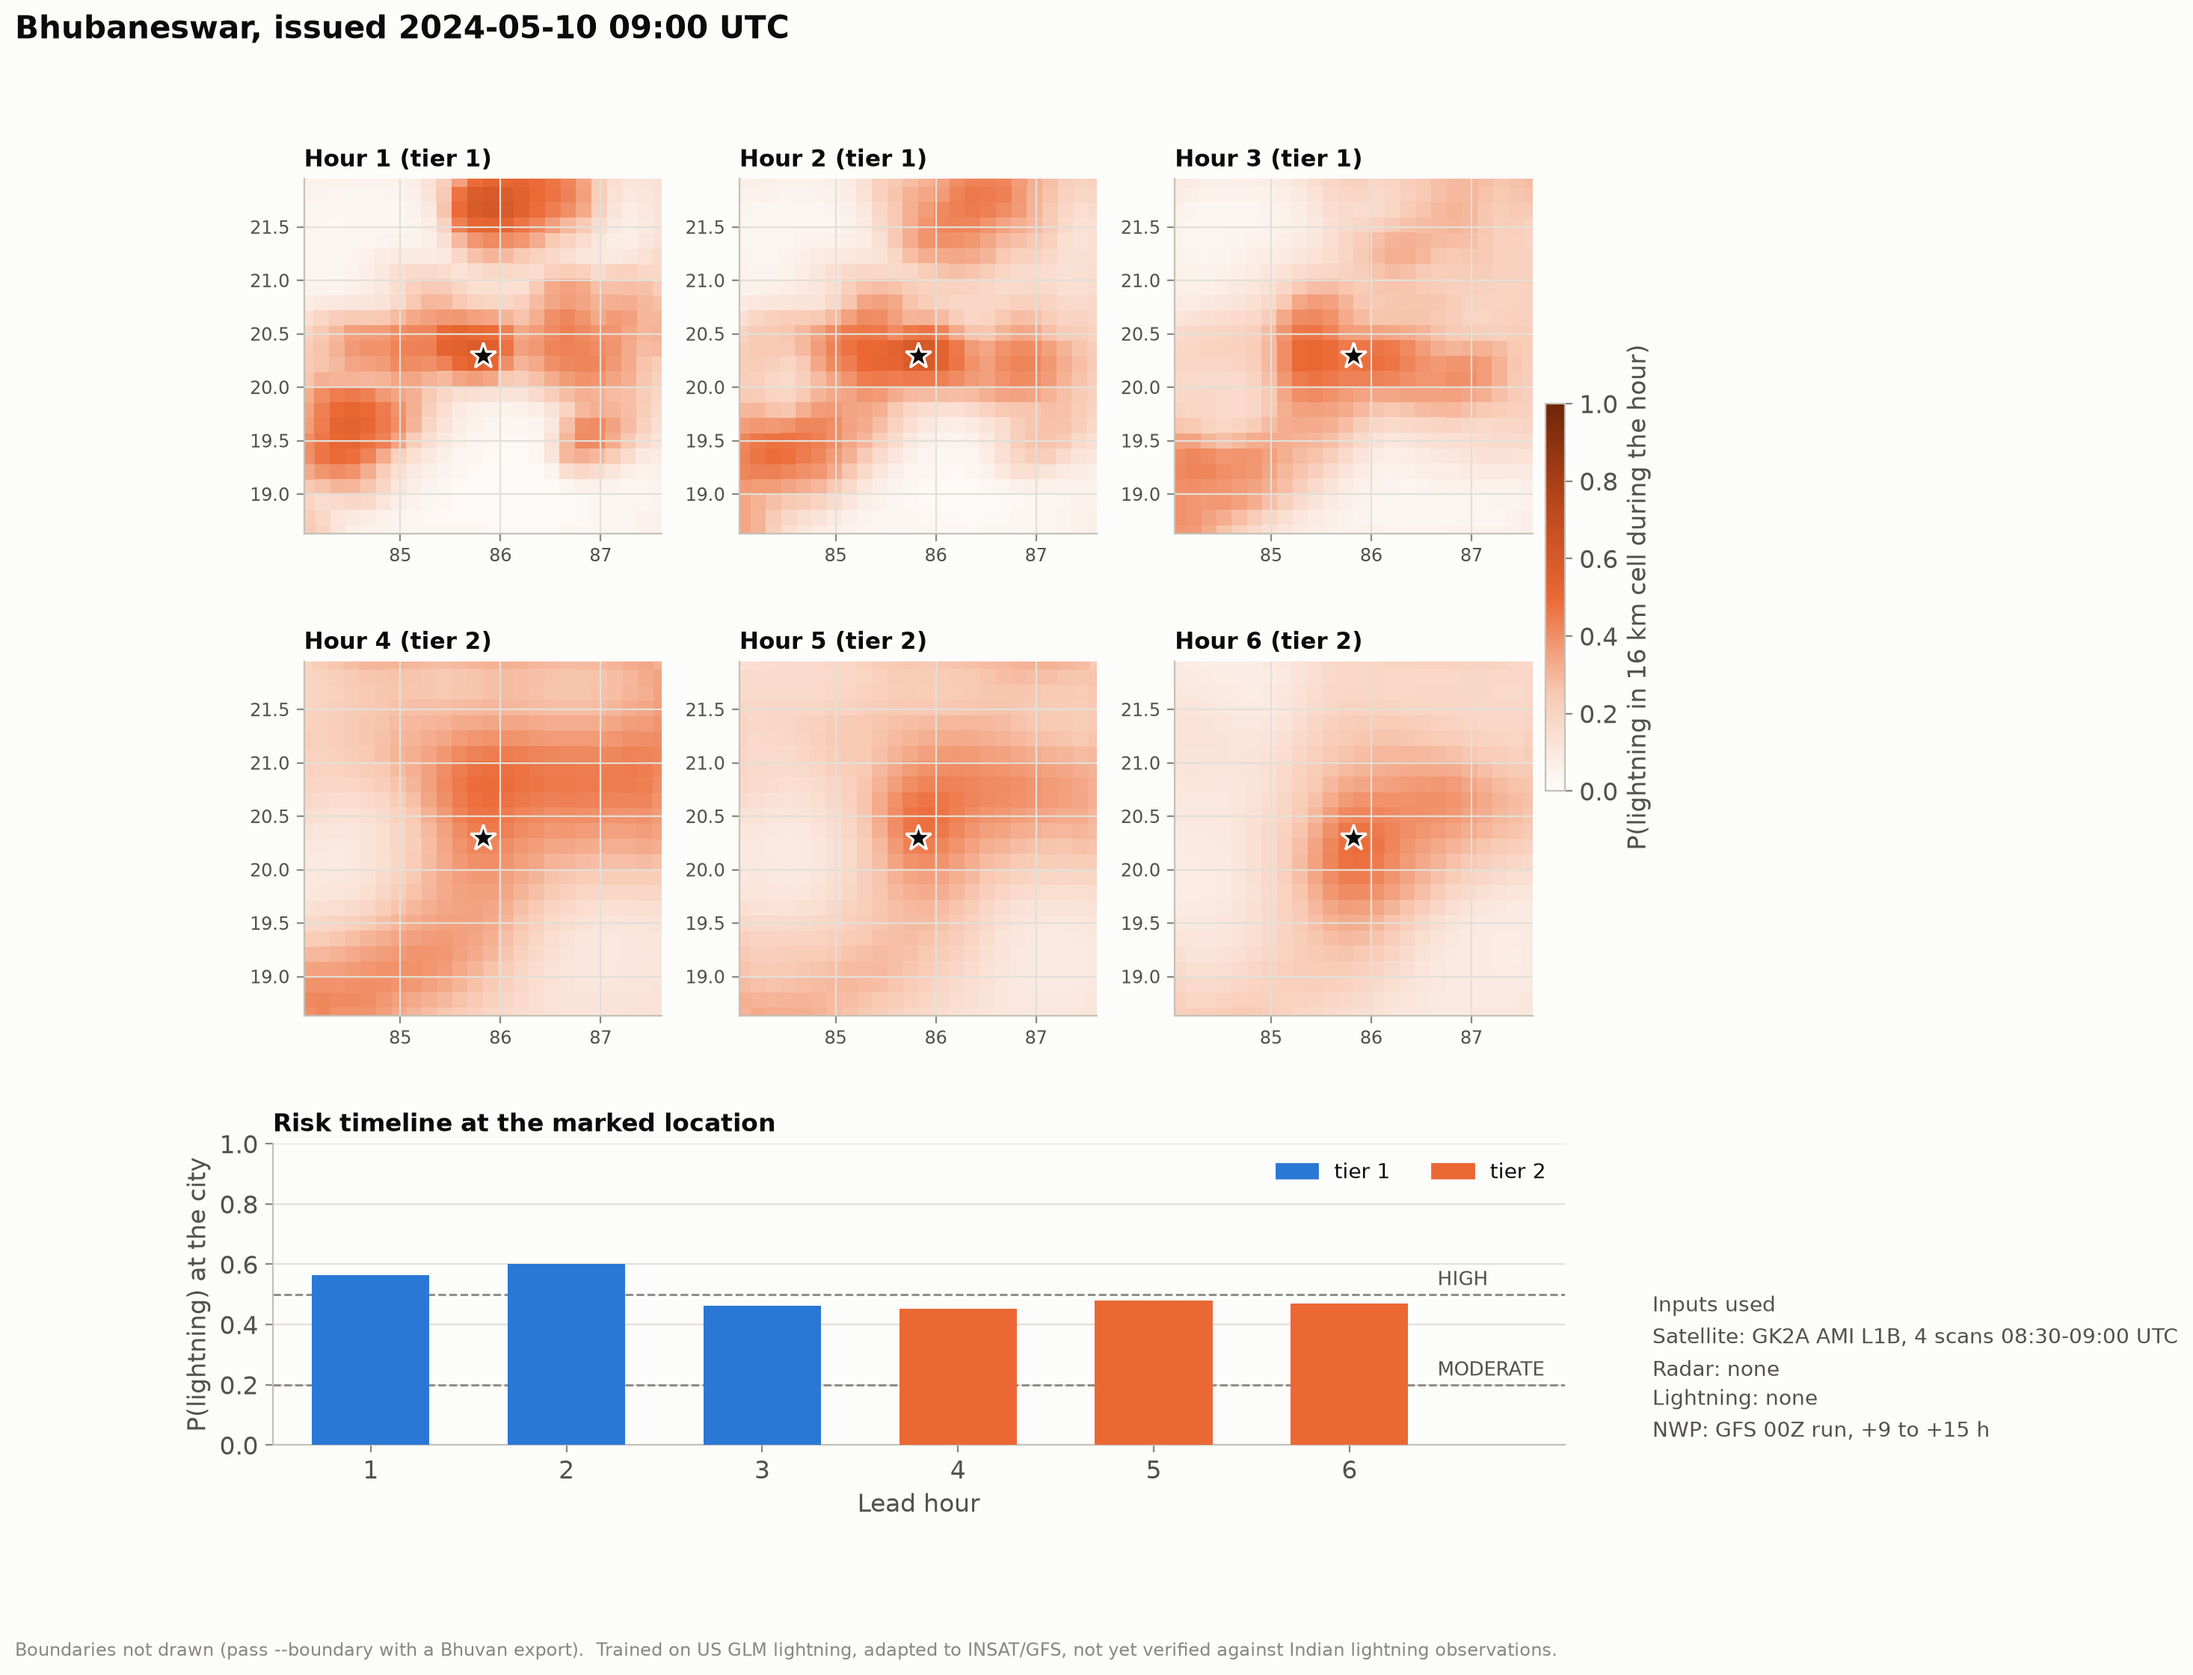
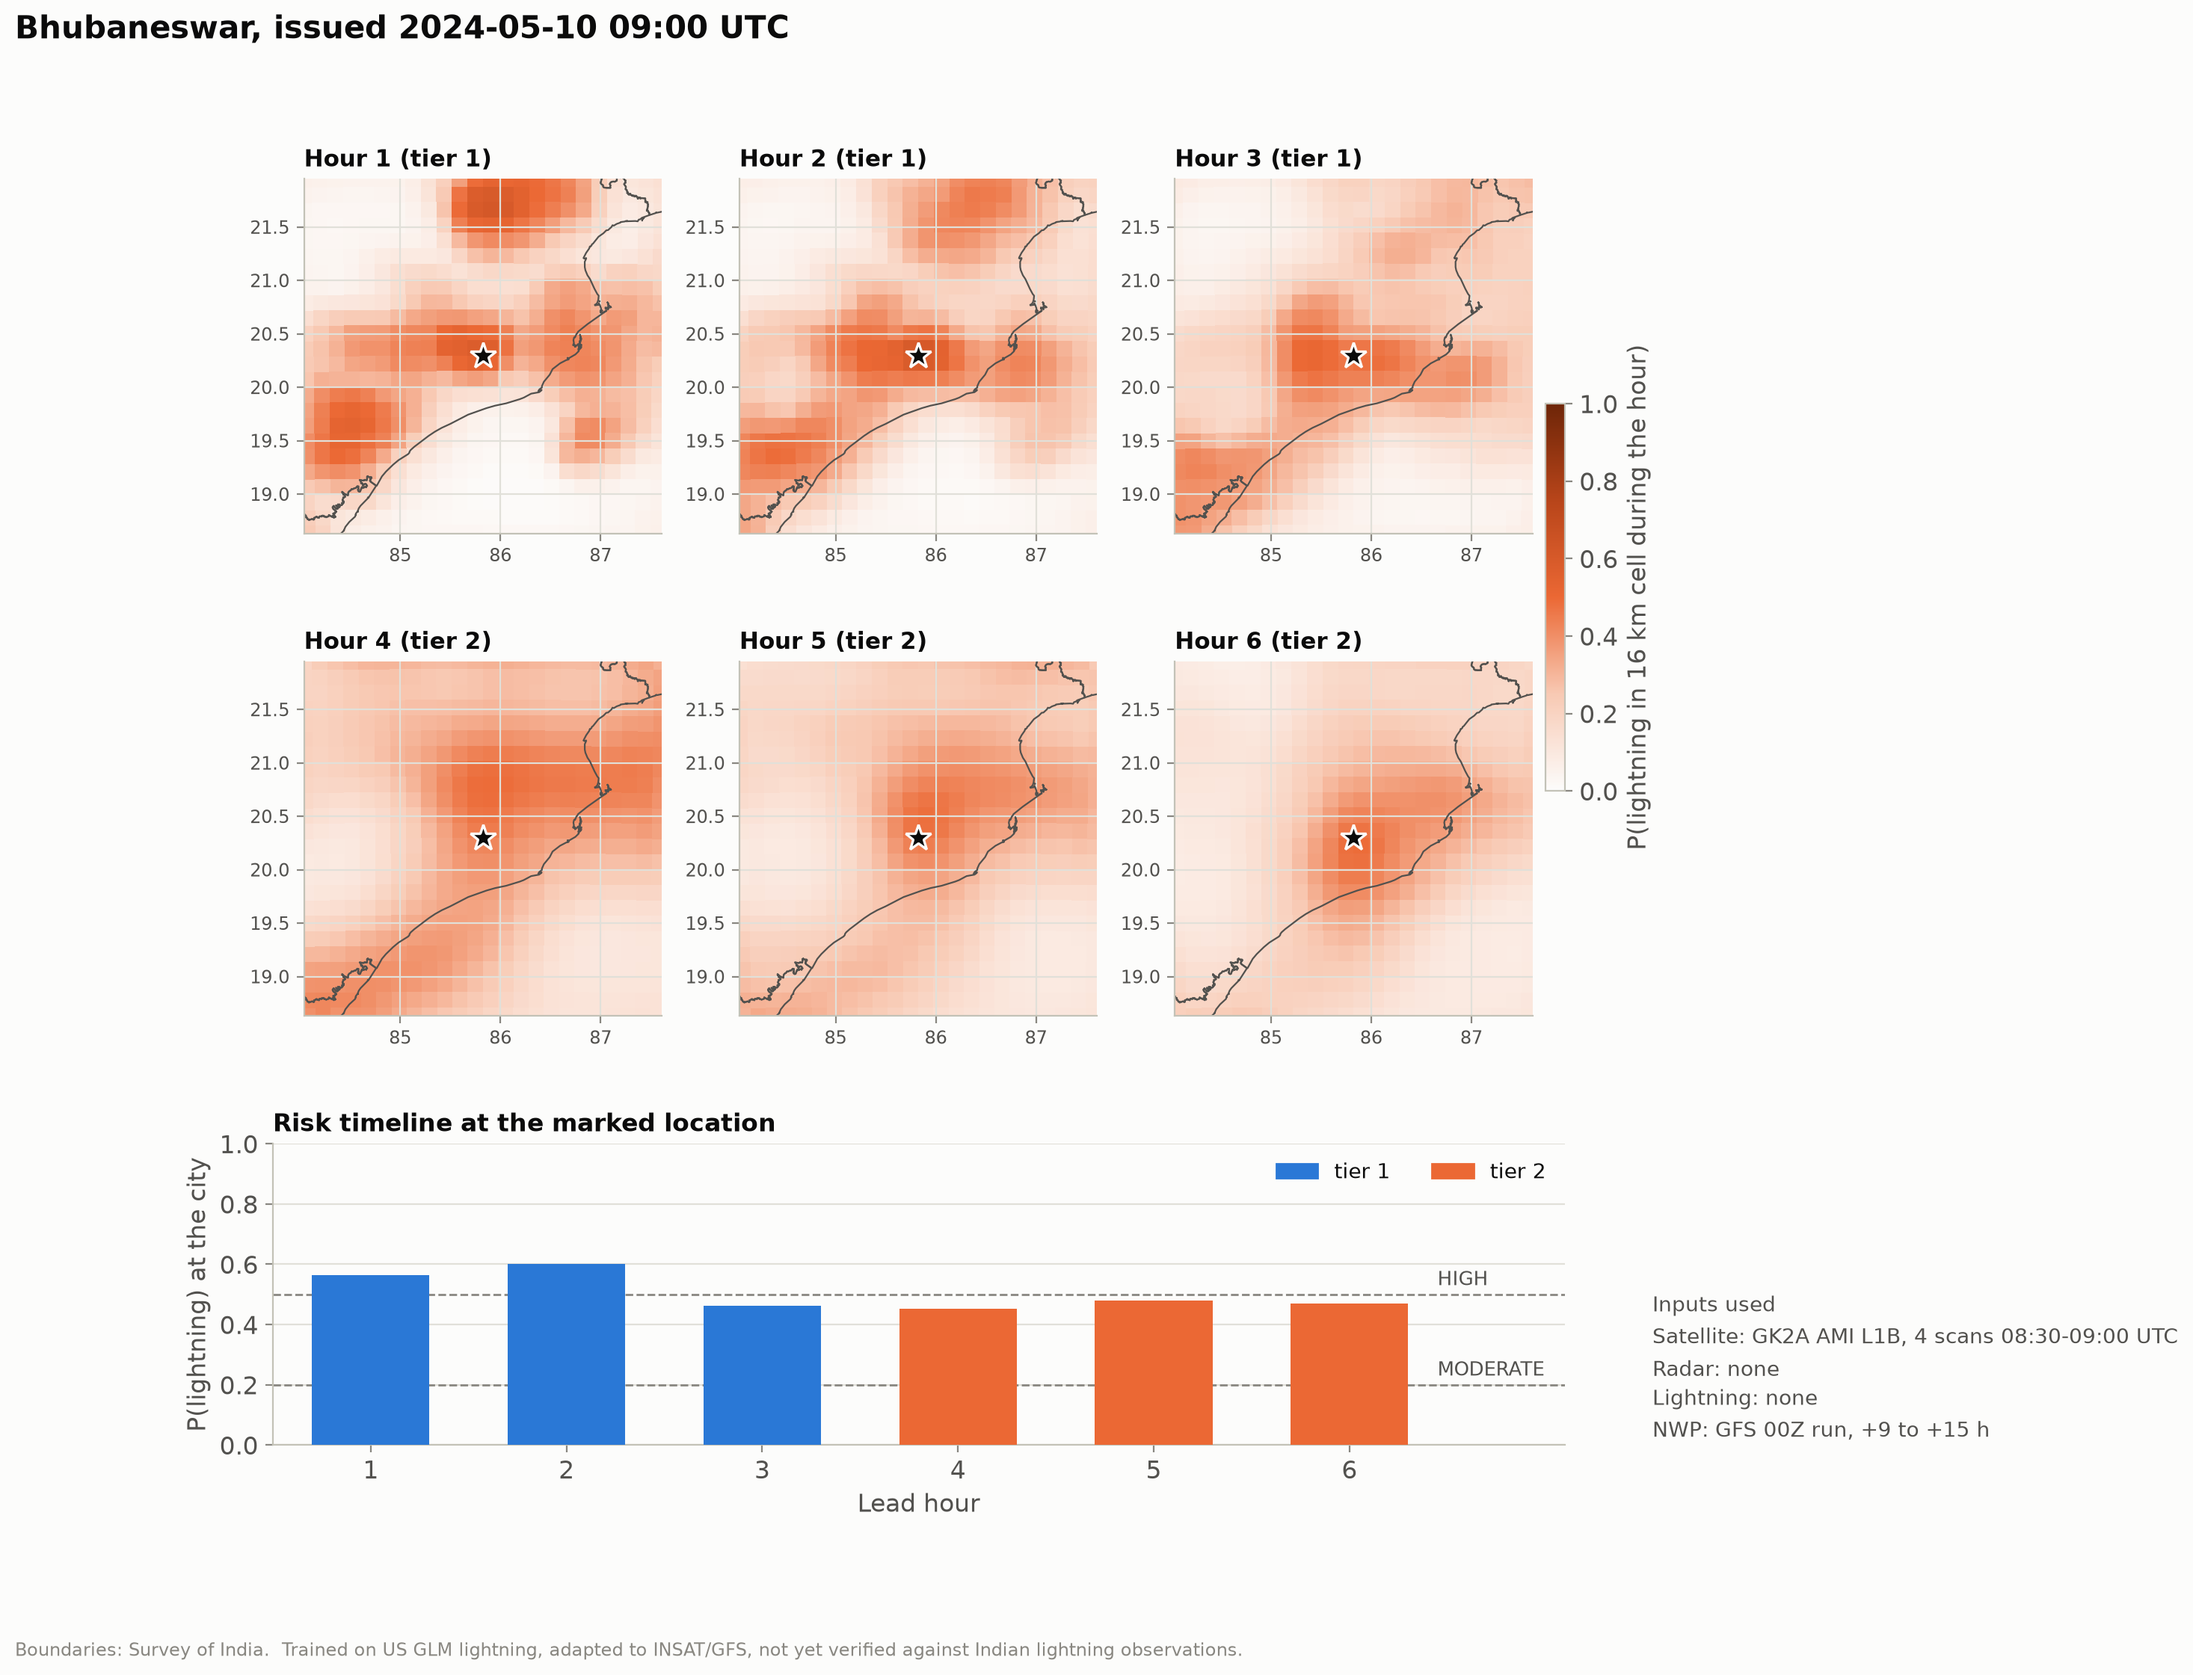
draw survey of india state boundaries on india maps

diff --git a/scripts/make_figures.py b/scripts/make_figures.py
@@ -9,11 +9,11 @@
   fig6_india_<case>.png   India case: hourly lightning probability maps and the risk timeline
   scorecard.md            the fig1 numbers as a table
 
-India maps draw boundaries only from --boundary (GeoJSON exported from ISRO Bhuvan). Without it the
+India maps draw boundaries only from --boundary (Survey of India state GeoJSON). Without it the
 map has a lat/lon grid and no boundary lines; Natural Earth is never used.
 
   python scripts/make_figures.py --results results --out figures --switch-hour 3 \
-      --boundary data/bhuvan_india_states.geojson
+      --boundary data/boundaries/india_states.geojson
 """
 
 import argparse
@@ -388,7 +388,7 @@ def india_cases(res, out, boundary):
         name = tile_id if tile_id in CITIES else f"{point[0]:.2f}N {point[1]:.2f}E"
         fig.suptitle(f"{name}, issued {when[:4]}-{when[4:6]}-{when[6:8]} {when[9:11]}:{when[11:13]} UTC",
                      x=0.01, ha="left", fontsize=15, fontweight="bold")
-        footnote(fig, "Boundaries: ISRO Bhuvan." if lines else "Boundaries not drawn (pass --boundary with a Bhuvan export).")
+        footnote(fig, "Boundaries: Survey of India." if lines else "Boundaries not drawn (pass --boundary).")
         save(fig, out, f"fig6_india_{stem}.png")
 
 
@@ -397,7 +397,7 @@ def main():
     ap.add_argument("--results", default="results")
     ap.add_argument("--out", default="figures")
     ap.add_argument("--switch-hour", type=int, help="default: first hour where tier 2 beats tier 1, minus one")
-    ap.add_argument("--boundary", help="GeoJSON of India boundaries exported from ISRO Bhuvan")
+    ap.add_argument("--boundary", help="GeoJSON of official India boundaries (Survey of India depiction)")
     ap.add_argument("--examples", type=int, default=4, help="forecast example figures to draw")
     args = ap.parse_args()
     os.makedirs(args.out, exist_ok=True)

diff --git a/STEPS.md b/STEPS.md
@@ -225,7 +225,7 @@ The website never runs the models. It reads static files exported from the pipel
 
 ```bash
 python scripts/export_site.py --results results --figures figures --cases site/cases.json --out site/public/data
-# add --boundary <ISRO Bhuvan India GeoJSON> for the map outline (never Natural Earth)
+# add --boundary data/boundaries/india_states.geojson (Survey of India) for the map outline (never Natural Earth)
 ```
 
 Run it on the server, where the India `.npz` map files exist, so map overlays are included. Re-run after every new India run.
